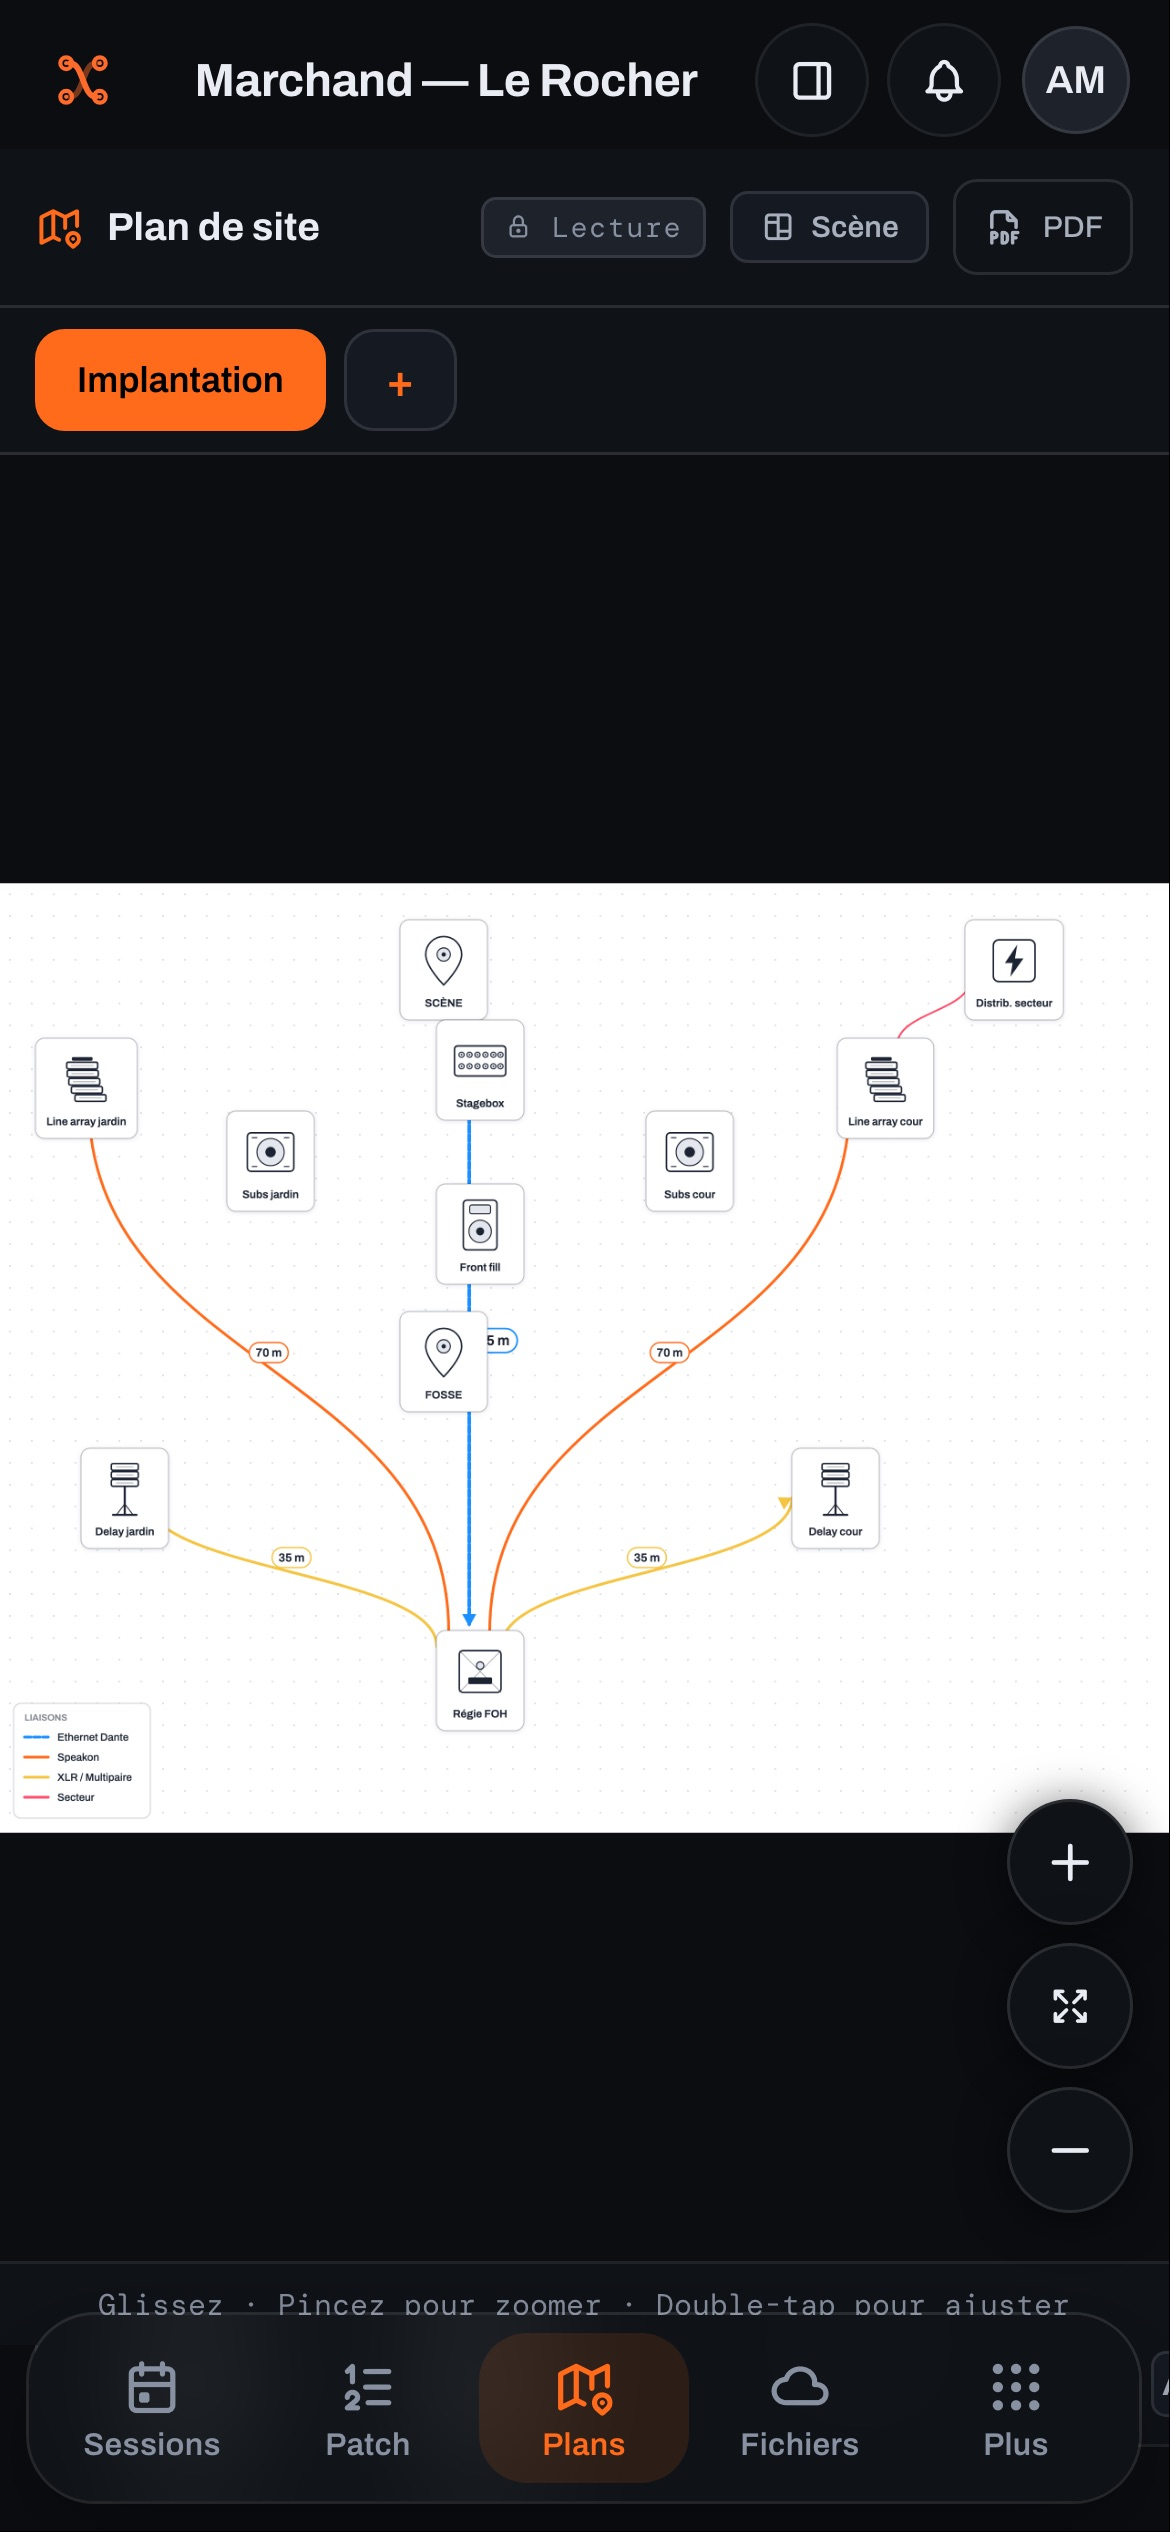
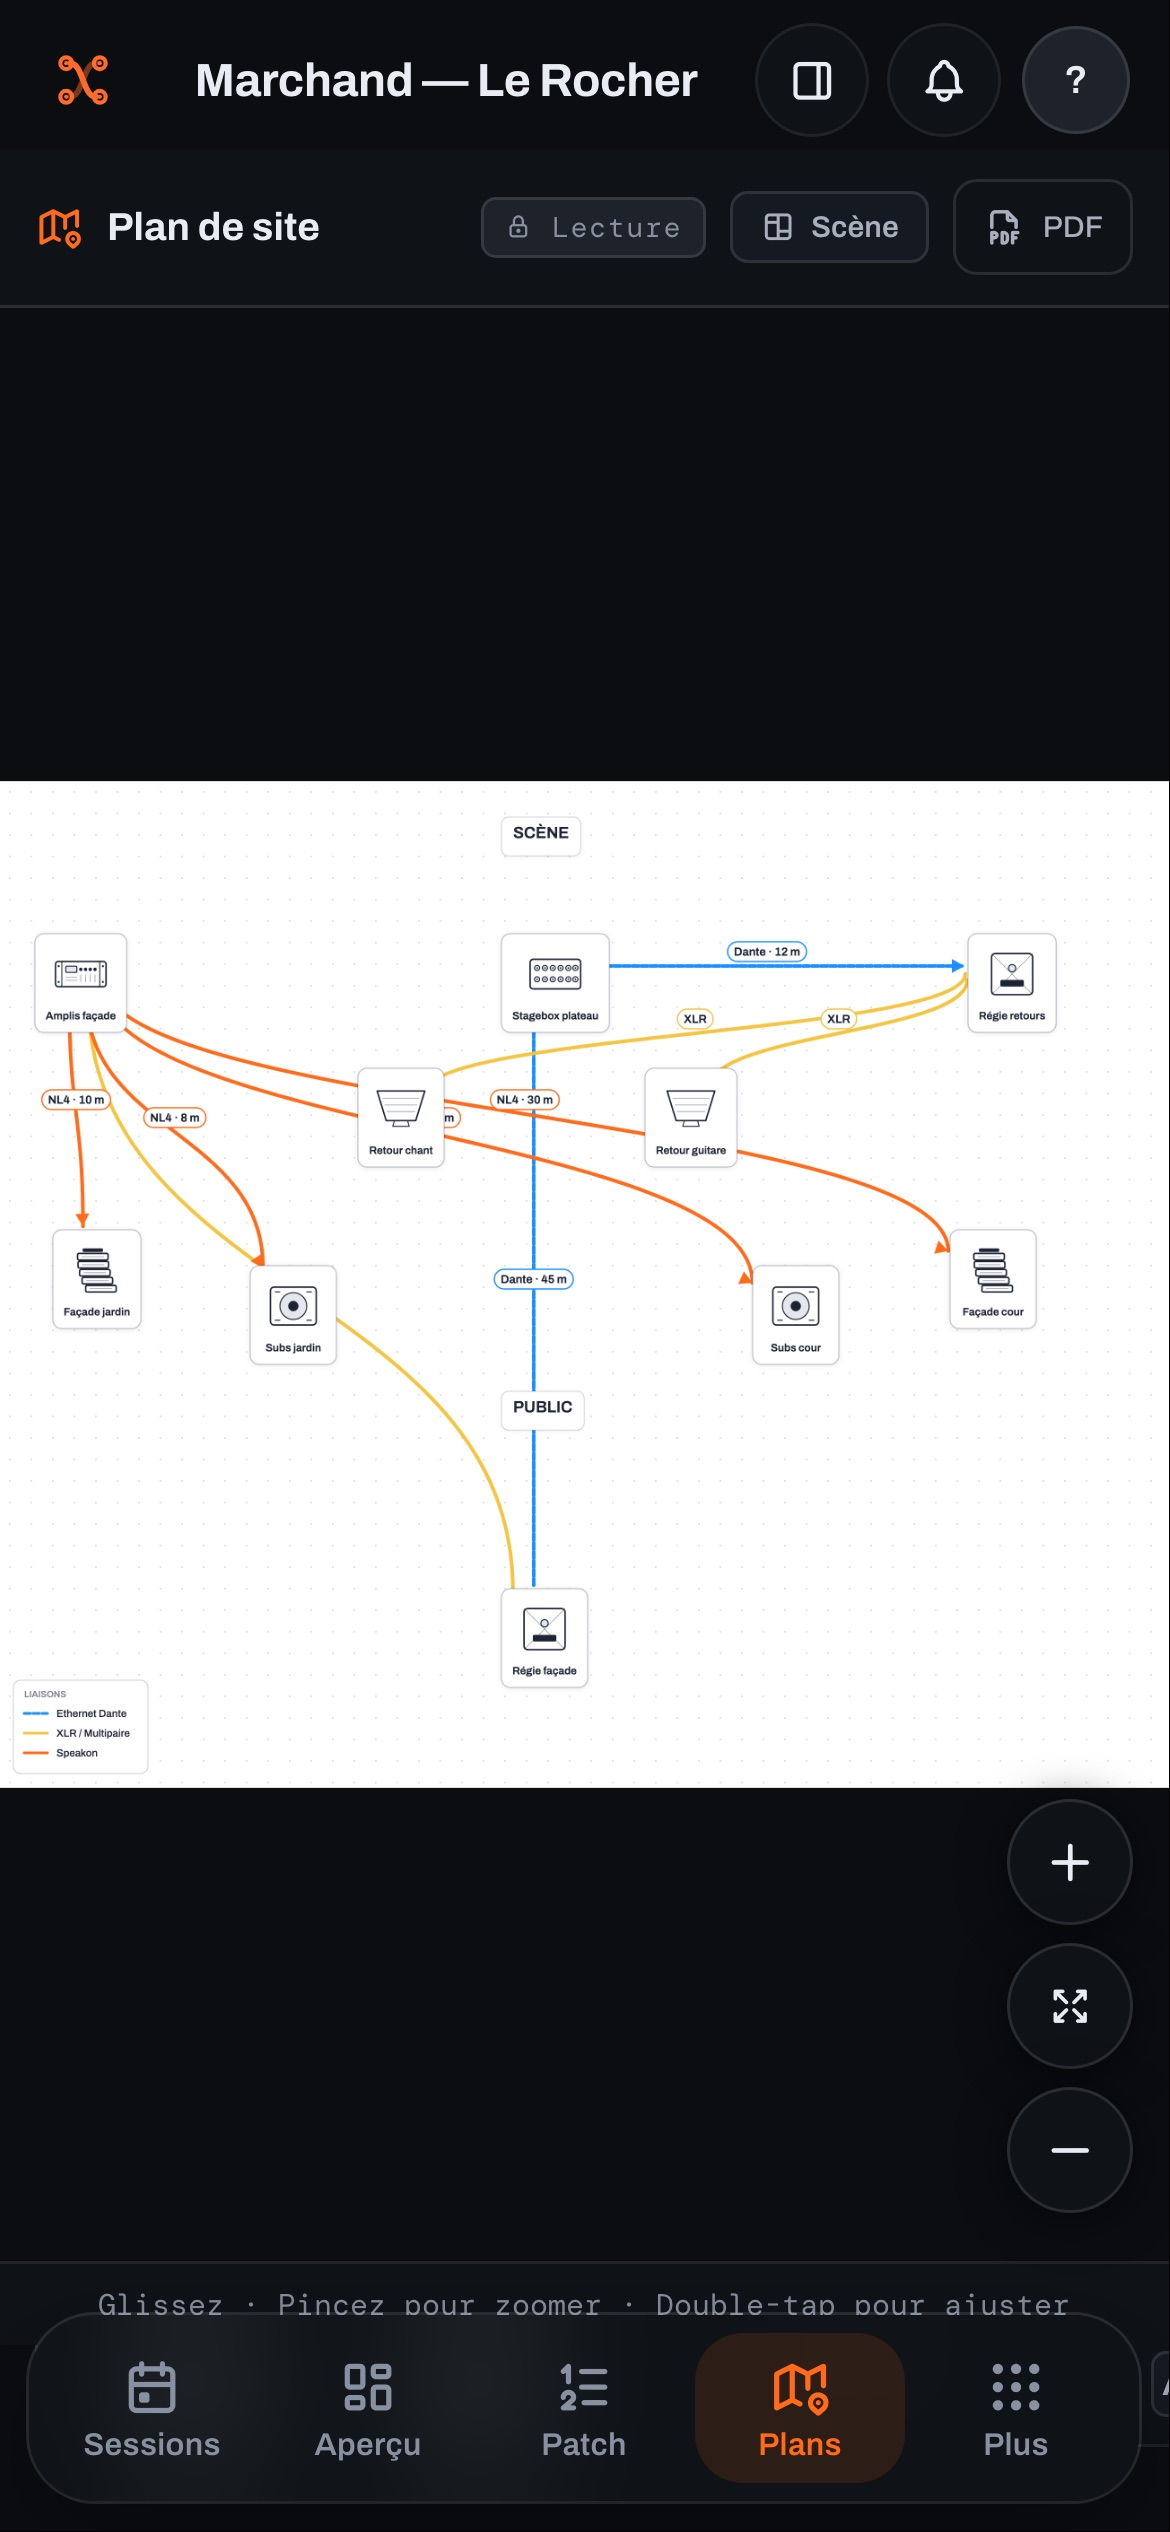
Page d'accueil : capture du plan de site sur téléphone refaite avec une implantation cohérente (façades, subs, retours, régies, liaisons Dante, AES, Speakon, XLR)

diff --git a/index.html b/index.html
@@ -799,7 +799,7 @@ html[data-view=mobile] .notes h3{margin-top:0}
     <p class="mt-sub">De l'input list au bon du loueur, pour la façade, les retours, la régie et la presta.</p>
     <div class="mt-tabs" role="tablist" aria-label="Familles de fonctionnalités"><button type="button" role="tab" aria-selected="true" aria-controls="mt-0" data-i="0"><span>01</span>Patch</button><button type="button" role="tab" aria-selected="false" aria-controls="mt-1" data-i="1"><span>02</span>Plans</button><button type="button" role="tab" aria-selected="false" aria-controls="mt-2" data-i="2"><span>03</span>Matériel</button><button type="button" role="tab" aria-selected="false" aria-controls="mt-3" data-i="3"><span>04</span>Sortie</button></div>
   </div>
-  <div class="mt-track" id="mt-track"><article class="mt-p" id="mt-0" role="tabpanel" aria-label="Patch"><div class="mt-vis ph"><span class="mt-phone"><picture><source type="image/avif" srcset="img/lp-m-output.avif?v=2"/><img src="img/lp-m-output.jpg?v=2" width="1170" height="2532" loading="lazy" decoding="async" alt="L'output list sur téléphone : wedges, in-ears, side fills, chacun avec son type"/></picture></span></div><ul class="mt-list"><li><svg class="mt-i" viewBox="0 0 24 24" fill="none" stroke="currentColor" stroke-width="1.7" stroke-linecap="round" stroke-linejoin="round" aria-hidden="true"><path d="M9 6h11M9 12h11M9 18h11"/><path d="M4 6h.01M4 12h.01M4 18h.01"/></svg><div><b>Input list</b><span>Micros et DI, +48&nbsp;V, envois façade et retours, colonnes à la carte.</span></div></li><li><svg class="mt-i" viewBox="0 0 24 24" fill="none" stroke="currentColor" stroke-width="1.7" stroke-linecap="round" stroke-linejoin="round" aria-hidden="true"><path d="M4 12h11M11 8l4 4-4 4M19 5v14"/></svg><div><b>Output list</b><span>Wedges, in-ears et leur fréquence HF, une couleur par type de sortie.</span></div></li><li><svg class="mt-i" viewBox="0 0 24 24" fill="none" stroke="currentColor" stroke-width="1.7" stroke-linecap="round" stroke-linejoin="round" aria-hidden="true"><path d="M14 3H7a2 2 0 0 0-2 2v14a2 2 0 0 0 2 2h10a2 2 0 0 0 2-2V8z"/><path d="M14 3v5h5M12 18v-6M9.5 14.5 12 12l2.5 2.5"/></svg><div><b>Reprise d'un rider</b><span>Le patch du groupe lu dans son PDF, sans rien retaper. Scans lus par IA <span class="tag">Pro</span></span></div></li></ul></article><article class="mt-p" id="mt-1" role="tabpanel" aria-label="Plans"><div class="mt-vis ph"><span class="mt-phone"><picture><source type="image/avif" srcset="img/lp-m-plan-site.avif?v=2"/><img src="img/lp-m-plan-site.jpg?v=2" width="1170" height="2532" loading="lazy" decoding="async" alt="Le plan de site dans l'app, sur téléphone : enceintes, régies et tirages de câbles"/></picture></span></div><ul class="mt-list"><li><svg class="mt-i" viewBox="0 0 24 24" fill="none" stroke="currentColor" stroke-width="1.7" stroke-linecap="round" stroke-linejoin="round" aria-hidden="true"><rect x="3" y="4" width="18" height="16" rx="2"/><path d="M3 10h18M9 10v10"/></svg><div><b>Plan de scène</b><span>Instruments et retours placés, numéros de voies repris du patch.</span></div></li><li><svg class="mt-i" viewBox="0 0 24 24" fill="none" stroke="currentColor" stroke-width="1.7" stroke-linecap="round" stroke-linejoin="round" aria-hidden="true"><path d="M9 4 3 6v14l6-2 6 2 6-2V4l-6 2-6-2zM9 4v14M15 6v14"/></svg><div><b>Plan de site</b><span>Enceintes, régies et tirages de câbles sur le plan de la salle.</span></div></li><li><svg class="mt-i" viewBox="0 0 24 24" fill="none" stroke="currentColor" stroke-width="1.7" stroke-linecap="round" stroke-linejoin="round" aria-hidden="true"><circle cx="5" cy="6" r="2"/><circle cx="19" cy="6" r="2"/><circle cx="12" cy="18" r="2"/><path d="M7 6h10M6.2 7.6l4.7 8.6M17.8 7.6l-4.7 8.6"/></svg><div><b>Synoptique</b><span>Généré depuis la session de vos amplis, réseau par réseau.</span></div></li></ul></article><article class="mt-p" id="mt-2" role="tabpanel" aria-label="Matériel"><div class="mt-vis ph"><span class="mt-phone"><picture><source type="image/avif" srcset="img/lp-m-racks.avif?v=1"/><img src="img/lp-m-racks.jpg?v=1" width="1170" height="2532" loading="lazy" decoding="async" alt="La page Racks de l'app sur téléphone : rack de régie à deux baies, poids et consommation"/></picture></span></div><ul class="mt-list"><li><svg class="mt-i" viewBox="0 0 24 24" fill="none" stroke="currentColor" stroke-width="1.7" stroke-linecap="round" stroke-linejoin="round" aria-hidden="true"><rect x="4" y="3" width="16" height="18" rx="2"/><path d="M4 9h16M4 15h16M8 6h.01M8 12h.01M8 18h.01"/></svg><div><b>Racks</b><span>Dessinés unité par unité, câblage, poids et consommation compris.</span></div></li><li><svg class="mt-i" viewBox="0 0 24 24" fill="none" stroke="currentColor" stroke-width="1.7" stroke-linecap="round" stroke-linejoin="round" aria-hidden="true"><path d="M12 21V11M8 7a5 5 0 0 1 8 0M5 4a9 9 0 0 1 14 0"/><circle cx="12" cy="10" r="1.2"/></svg><div><b>Liaisons HF</b><span>Fréquences compatibles calculées, intermodulation comprise.</span></div></li><li><svg class="mt-i" viewBox="0 0 24 24" fill="none" stroke="currentColor" stroke-width="1.7" stroke-linecap="round" stroke-linejoin="round" aria-hidden="true"><rect x="5" y="4" width="14" height="17" rx="2"/><path d="M9 4V3h6v1M9 12.5l2 2 4-4.5"/></svg><div><b>Bon du loueur</b><span>La demande de matériel, puis le pointage du bon avant de charger.</span></div></li></ul></article><article class="mt-p" id="mt-3" role="tabpanel" aria-label="Sortie"><div class="mt-vis ph"><span class="mt-phone"><picture><source type="image/avif" srcset="img/lp-share-il.avif?v=2"/><img src="img/lp-share-il.jpg?v=2" width="1170" height="2532" loading="lazy" decoding="async" alt="Le rider partagé sur téléphone : input list en cartes, avec micro, +48 V, façade et retours"/></picture></span></div><ul class="mt-list"><li><svg class="mt-i" viewBox="0 0 24 24" fill="none" stroke="currentColor" stroke-width="1.7" stroke-linecap="round" stroke-linejoin="round" aria-hidden="true"><path d="M10 14a4 4 0 0 0 5.7 0l3-3a4 4 0 0 0-5.7-5.7l-1 1"/><path d="M14 10a4 4 0 0 0-5.7 0l-3 3a4 4 0 0 0 5.7 5.7l1-1"/></svg><div><b>Lien toujours à jour</b><span>Un lien par destinataire, ouvert sans compte, toujours la dernière version.</span></div></li><li><svg class="mt-i" viewBox="0 0 24 24" fill="none" stroke="currentColor" stroke-width="1.7" stroke-linecap="round" stroke-linejoin="round" aria-hidden="true"><path d="M6 4v6M6 14v6M12 4v2M12 10v10M18 4v9M18 17v3"/><circle cx="6" cy="12" r="2"/><circle cx="12" cy="8" r="2"/><circle cx="18" cy="15" r="2"/></svg><div><b>Exports console</b><span>X32, M32, WING, dLive, SQ, Yamaha&nbsp;: 3 shows par mois en Gratuit, illimités en Pro.</span></div></li><li><svg class="mt-i" viewBox="0 0 24 24" fill="none" stroke="currentColor" stroke-width="1.7" stroke-linecap="round" stroke-linejoin="round" aria-hidden="true"><circle cx="9" cy="8" r="3.2"/><path d="M3 20c0-3.3 2.7-5.5 6-5.5s6 2.2 6 5.5M16 5.2a3.2 3.2 0 0 1 0 5.6M18 14.8c1.9.7 3 2.4 3 5.2"/></svg><div><b>Équipe et rôles</b><span>Ingé retours en éditeur, régisseur en lecture&nbsp;: tout le monde sur la même version.</span></div></li></ul></article></div>
+  <div class="mt-track" id="mt-track"><article class="mt-p" id="mt-0" role="tabpanel" aria-label="Patch"><div class="mt-vis ph"><span class="mt-phone"><picture><source type="image/avif" srcset="img/lp-m-output.avif?v=2"/><img src="img/lp-m-output.jpg?v=2" width="1170" height="2532" loading="lazy" decoding="async" alt="L'output list sur téléphone : wedges, in-ears, side fills, chacun avec son type"/></picture></span></div><ul class="mt-list"><li><svg class="mt-i" viewBox="0 0 24 24" fill="none" stroke="currentColor" stroke-width="1.7" stroke-linecap="round" stroke-linejoin="round" aria-hidden="true"><path d="M9 6h11M9 12h11M9 18h11"/><path d="M4 6h.01M4 12h.01M4 18h.01"/></svg><div><b>Input list</b><span>Micros et DI, +48&nbsp;V, envois façade et retours, colonnes à la carte.</span></div></li><li><svg class="mt-i" viewBox="0 0 24 24" fill="none" stroke="currentColor" stroke-width="1.7" stroke-linecap="round" stroke-linejoin="round" aria-hidden="true"><path d="M4 12h11M11 8l4 4-4 4M19 5v14"/></svg><div><b>Output list</b><span>Wedges, in-ears et leur fréquence HF, une couleur par type de sortie.</span></div></li><li><svg class="mt-i" viewBox="0 0 24 24" fill="none" stroke="currentColor" stroke-width="1.7" stroke-linecap="round" stroke-linejoin="round" aria-hidden="true"><path d="M14 3H7a2 2 0 0 0-2 2v14a2 2 0 0 0 2 2h10a2 2 0 0 0 2-2V8z"/><path d="M14 3v5h5M12 18v-6M9.5 14.5 12 12l2.5 2.5"/></svg><div><b>Reprise d'un rider</b><span>Le patch du groupe lu dans son PDF, sans rien retaper. Scans lus par IA <span class="tag">Pro</span></span></div></li></ul></article><article class="mt-p" id="mt-1" role="tabpanel" aria-label="Plans"><div class="mt-vis ph"><span class="mt-phone"><picture><source type="image/avif" srcset="img/lp-m-plan-site.avif?v=3"/><img src="img/lp-m-plan-site.jpg?v=3" width="1170" height="2532" loading="lazy" decoding="async" alt="Le plan de site dans l'app, sur téléphone : enceintes, régies et tirages de câbles"/></picture></span></div><ul class="mt-list"><li><svg class="mt-i" viewBox="0 0 24 24" fill="none" stroke="currentColor" stroke-width="1.7" stroke-linecap="round" stroke-linejoin="round" aria-hidden="true"><rect x="3" y="4" width="18" height="16" rx="2"/><path d="M3 10h18M9 10v10"/></svg><div><b>Plan de scène</b><span>Instruments et retours placés, numéros de voies repris du patch.</span></div></li><li><svg class="mt-i" viewBox="0 0 24 24" fill="none" stroke="currentColor" stroke-width="1.7" stroke-linecap="round" stroke-linejoin="round" aria-hidden="true"><path d="M9 4 3 6v14l6-2 6 2 6-2V4l-6 2-6-2zM9 4v14M15 6v14"/></svg><div><b>Plan de site</b><span>Enceintes, régies et tirages de câbles sur le plan de la salle.</span></div></li><li><svg class="mt-i" viewBox="0 0 24 24" fill="none" stroke="currentColor" stroke-width="1.7" stroke-linecap="round" stroke-linejoin="round" aria-hidden="true"><circle cx="5" cy="6" r="2"/><circle cx="19" cy="6" r="2"/><circle cx="12" cy="18" r="2"/><path d="M7 6h10M6.2 7.6l4.7 8.6M17.8 7.6l-4.7 8.6"/></svg><div><b>Synoptique</b><span>Généré depuis la session de vos amplis, réseau par réseau.</span></div></li></ul></article><article class="mt-p" id="mt-2" role="tabpanel" aria-label="Matériel"><div class="mt-vis ph"><span class="mt-phone"><picture><source type="image/avif" srcset="img/lp-m-racks.avif?v=1"/><img src="img/lp-m-racks.jpg?v=1" width="1170" height="2532" loading="lazy" decoding="async" alt="La page Racks de l'app sur téléphone : rack de régie à deux baies, poids et consommation"/></picture></span></div><ul class="mt-list"><li><svg class="mt-i" viewBox="0 0 24 24" fill="none" stroke="currentColor" stroke-width="1.7" stroke-linecap="round" stroke-linejoin="round" aria-hidden="true"><rect x="4" y="3" width="16" height="18" rx="2"/><path d="M4 9h16M4 15h16M8 6h.01M8 12h.01M8 18h.01"/></svg><div><b>Racks</b><span>Dessinés unité par unité, câblage, poids et consommation compris.</span></div></li><li><svg class="mt-i" viewBox="0 0 24 24" fill="none" stroke="currentColor" stroke-width="1.7" stroke-linecap="round" stroke-linejoin="round" aria-hidden="true"><path d="M12 21V11M8 7a5 5 0 0 1 8 0M5 4a9 9 0 0 1 14 0"/><circle cx="12" cy="10" r="1.2"/></svg><div><b>Liaisons HF</b><span>Fréquences compatibles calculées, intermodulation comprise.</span></div></li><li><svg class="mt-i" viewBox="0 0 24 24" fill="none" stroke="currentColor" stroke-width="1.7" stroke-linecap="round" stroke-linejoin="round" aria-hidden="true"><rect x="5" y="4" width="14" height="17" rx="2"/><path d="M9 4V3h6v1M9 12.5l2 2 4-4.5"/></svg><div><b>Bon du loueur</b><span>La demande de matériel, puis le pointage du bon avant de charger.</span></div></li></ul></article><article class="mt-p" id="mt-3" role="tabpanel" aria-label="Sortie"><div class="mt-vis ph"><span class="mt-phone"><picture><source type="image/avif" srcset="img/lp-share-il.avif?v=2"/><img src="img/lp-share-il.jpg?v=2" width="1170" height="2532" loading="lazy" decoding="async" alt="Le rider partagé sur téléphone : input list en cartes, avec micro, +48 V, façade et retours"/></picture></span></div><ul class="mt-list"><li><svg class="mt-i" viewBox="0 0 24 24" fill="none" stroke="currentColor" stroke-width="1.7" stroke-linecap="round" stroke-linejoin="round" aria-hidden="true"><path d="M10 14a4 4 0 0 0 5.7 0l3-3a4 4 0 0 0-5.7-5.7l-1 1"/><path d="M14 10a4 4 0 0 0-5.7 0l-3 3a4 4 0 0 0 5.7 5.7l1-1"/></svg><div><b>Lien toujours à jour</b><span>Un lien par destinataire, ouvert sans compte, toujours la dernière version.</span></div></li><li><svg class="mt-i" viewBox="0 0 24 24" fill="none" stroke="currentColor" stroke-width="1.7" stroke-linecap="round" stroke-linejoin="round" aria-hidden="true"><path d="M6 4v6M6 14v6M12 4v2M12 10v10M18 4v9M18 17v3"/><circle cx="6" cy="12" r="2"/><circle cx="12" cy="8" r="2"/><circle cx="18" cy="15" r="2"/></svg><div><b>Exports console</b><span>X32, M32, WING, dLive, SQ, Yamaha&nbsp;: 3 shows par mois en Gratuit, illimités en Pro.</span></div></li><li><svg class="mt-i" viewBox="0 0 24 24" fill="none" stroke="currentColor" stroke-width="1.7" stroke-linecap="round" stroke-linejoin="round" aria-hidden="true"><circle cx="9" cy="8" r="3.2"/><path d="M3 20c0-3.3 2.7-5.5 6-5.5s6 2.2 6 5.5M16 5.2a3.2 3.2 0 0 1 0 5.6M18 14.8c1.9.7 3 2.4 3 5.2"/></svg><div><b>Équipe et rôles</b><span>Ingé retours en éditeur, régisseur en lecture&nbsp;: tout le monde sur la même version.</span></div></li></ul></article></div>
   <div class="w">
     <div class="mt-dots" aria-hidden="true"><i class="on"></i><i></i><i></i><i></i></div>
     <p class="mt-aussi"><b>Et aussi&nbsp;:</b> feuille de route, colonne ALT, templates, import et export CSV, enregistrement en continu, mode sombre, corbeille de 30&nbsp;jours <span class="tag">Pro</span>.</p>
@@ -933,8 +933,8 @@ html[data-view=mobile] .notes h3{margin-top:0}
       <figure class="mshot">
         <div class="mphone">
           <picture>
-            <source type="image/avif" srcset="img/lp-m-plan-site.avif?v=2"/>
-            <img src="img/lp-m-plan-site.jpg?v=2" width="1170" height="2532" loading="lazy" decoding="async"
+            <source type="image/avif" srcset="img/lp-m-plan-site.avif?v=3"/>
+            <img src="img/lp-m-plan-site.jpg?v=3" width="1170" height="2532" loading="lazy" decoding="async"
               alt="Le plan de site sur téléphone, en lecture, avec zoom au doigt."/>
           </picture>
         </div>
